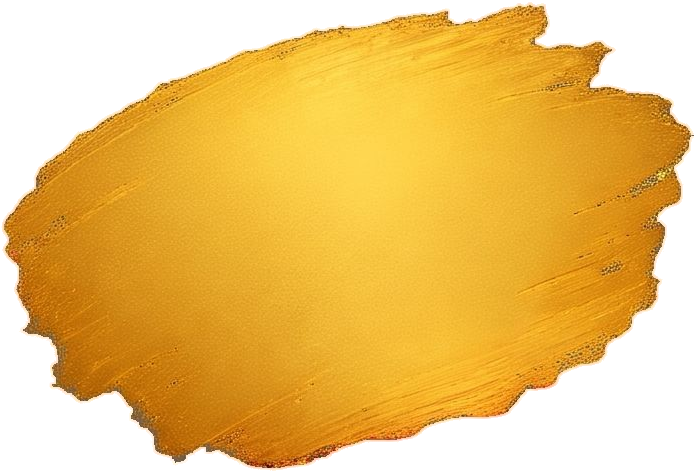
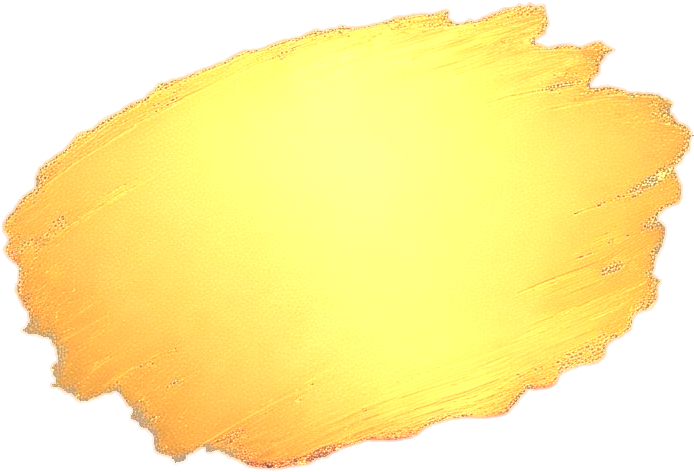
Auto: 2026-10-28 18:30

diff --git a/sw.js b/sw.js
@@ -3,7 +3,7 @@
 // 書体（Google Fonts）は変わらないので「控えがあれば控え」。
 // ファイルを足したら SHELL にも足し、VERSION を上げること。
 
-const VERSION = 'v20';
+const VERSION = 'v21';
 const SHELL_CACHE = `seikapop-shell-${VERSION}`;
 const FONT_CACHE = 'seikapop-fonts';
 const SHELL = [

diff --git a/tools/make_badges.py b/tools/make_badges.py
@@ -2,9 +2,9 @@
 
     python tools/make_badges.py
 
-元の絵は白か黒の背景に描いた台紙（文字は入っていない。透明の PNG でもよい）。背景の色は四隅で見分ける。
+元の絵は白・黒・灰色など一色の背景に描いた台紙（文字は入っていない。透明の PNG でもよい）。背景の色は四隅の平均で決める。
 外周から背景の色の画素をたどって透明にし、ふちに残るにじみは「背景の色に混ざった色」として抜く
-（写真の上で白や黒の縁が出ないように）。
+（写真の上で背景の色の縁が出ないように）。
 文字を置く枠は js/model.js の PRICE_BADGES に書く（元の絵の幅・高さに対する割合）。
 """
 from collections import deque
@@ -15,20 +15,21 @@ from PIL import Image, ImageFilter
 ROOT = Path(__file__).resolve().parent.parent
 SRC = ROOT / "img" / "badges" / "source"
 OUT = ROOT / "img" / "badges"
-NEAR = 20  # 背景の色（白か黒）からこれ以内の画素を背景とみなす
+NEAR = 20  # 背景の色（四隅の色）からこれ以内の画素を背景とみなす
 
 
 def cut_out(im: Image.Image) -> Image.Image:
-    """外周につながった白か黒の背景を透明にする（大きさは変えない。枠の割合がずれないように）。"""
+    """外周につながった一色の背景を透明にする（大きさは変えない。枠の割合がずれないように）。"""
     if "A" in im.getbands() and im.getchannel("A").getextrema()[0] < 255:
         return im.convert("RGBA")  # もう透明になっている
     im = im.convert("RGB")
     w, h = im.size
     px = im.load()
     corners = [px[0, 0], px[w - 1, 0], px[0, h - 1], px[w - 1, h - 1]]
-    white = sum(sum(c) for c in corners) > 4 * 3 * 128
-    ref = 255 if white else 0
-    is_bg = lambda c: max(abs(v - ref) for v in c) <= NEAR
+    ref = tuple(round(sum(c[i] for c in corners) / 4) for i in range(3))
+    is_bg = lambda c: max(abs(v - r) for v, r in zip(c, ref)) <= NEAR
+    # その色が背景の色からどれだけ離れているか（0＝背景そのもの、1＝その向きの端の色まで離れている）
+    reach = lambda v, r: (v - r) / (255 - r) if v > r else (r - v) / r if v < r else 0
     bg = bytearray(w * h)
     q = deque([(x, y) for x in range(w) for y in (0, h - 1)] + [(x, y) for y in range(h) for x in (0, w - 1)])
     while q:
@@ -52,12 +53,12 @@ def cut_out(im: Image.Image) -> Image.Image:
             if bg[y * w + x]:
                 po[x, y] = (0, 0, 0, 0)
             elif edge[x, y]:
-                a = 1 - min(r, g, b) / 255 if white else max(r, g, b) / 255
+                a = max(reach(v, rf) for v, rf in zip((r, g, b), ref))
                 if a <= 0.02:
                     po[x, y] = (0, 0, 0, 0)
                 else:
-                    un = lambda c: max(0, min(255, round((c - (1 - a) * ref) / a)))
-                    po[x, y] = (un(r), un(g), un(b), round(a * 255))
+                    un = lambda c, rf: max(0, min(255, round((c - (1 - a) * rf) / a)))
+                    po[x, y] = (un(r, ref[0]), un(g, ref[1]), un(b, ref[2]), round(a * 255))
             else:
                 po[x, y] = (r, g, b, 255)
     return out
